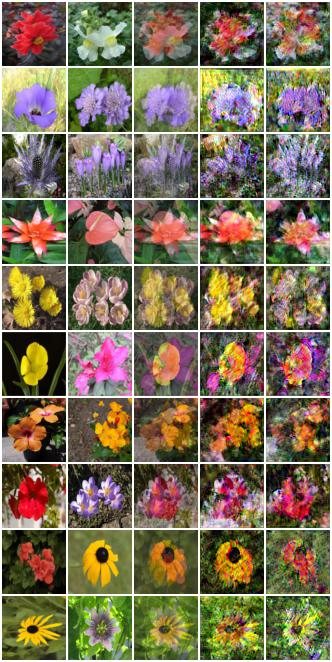
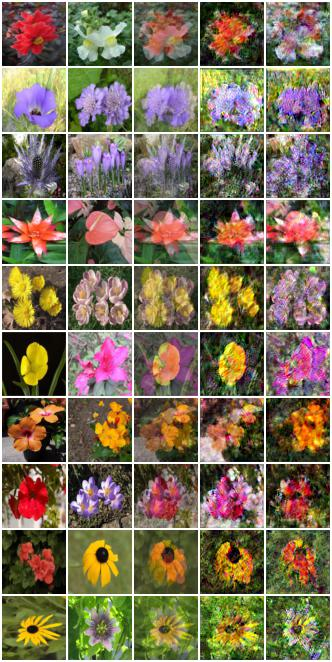
Save epoch 20 image previews

Changed region(s): [[0.6024, 0.0, 0.994, 0.997]]

diff --git a/train_coupled.py b/train_coupled.py
@@ -863,7 +863,7 @@ def launch():
     parser.add_argument("--max_timesteps", default=250, type=int, help="Number of diffusion timesteps", required=False)
     parser.add_argument(
         "--max_noise_std",
-        default=0.01,
+        default=0.196,
         type=float,
         help="Maximum standard deviation reached by the linear Gaussian noise schedule over the full 6-channel state",
         required=False,
